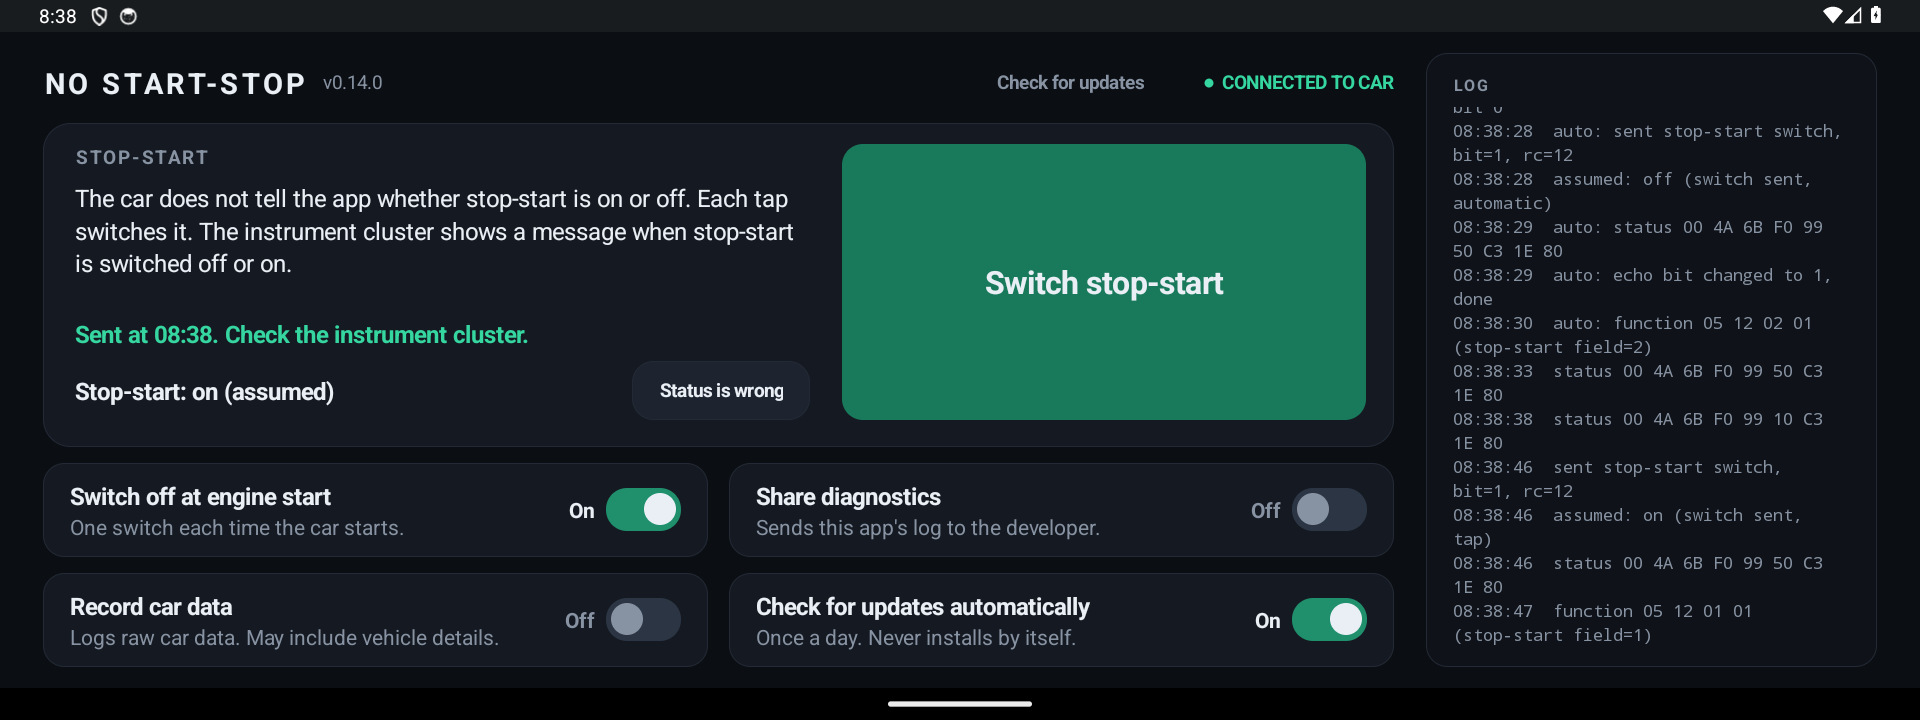
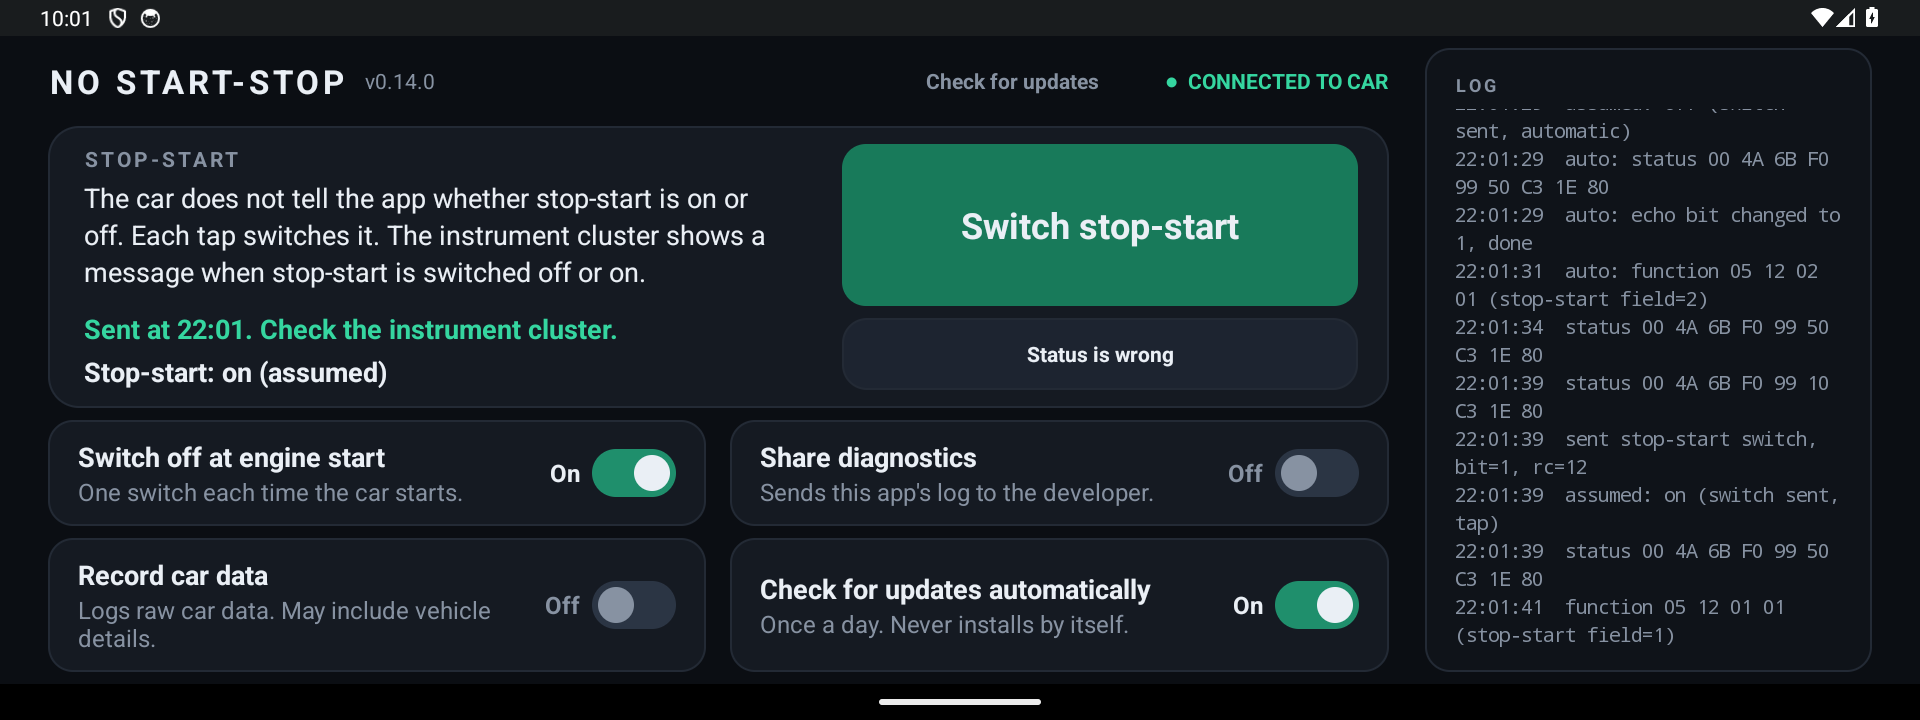
Retake the screenshots at 240 dpi with the fixed layout

diff --git a/README.md b/README.md
@@ -167,7 +167,7 @@ To copy it without adb:
 
 Each line has a date and time. Lines to look for:
 
-- `app opened, version …, android … (sdk …), <model>, boot count 7, up 42 s, network up (wifi)`: app and Android version, the head unit's model name, how many times the head unit has booted, seconds since it booted, and the network state. `boot count unknown` before Android 7.
+- `app opened, version …, android … (sdk …), <model>, display 1920x720, 240 dpi, boot count 7, up 42 s, network up (wifi)`: app and Android version, the head unit's model name, its screen size in pixels and density, how many times the head unit has booted, seconds since it booted, and the network state. `boot count unknown` before Android 7.
 - `TWUtil open` / `TWUtil unavailable: …`: whether the head unit's MCU link works. With **Record car data** on, `TWUtil open, CAN box only (engine and unit ids refused: …)` means the head unit refused the engine and unit messages; the switch works the same.
 - `status 00 4A …`: the raw settings frame (id 56) from the CAN box, logged whenever it changes.
 - `function 05 12 02 01 (stop-start field=2)`: the CAN box function frame (id 57), asked for after the first status frame when the link opens and 1.5 and 5 seconds after each switch, logged when it changes since the app started (at most 40 lines each time the app connects). The field is a candidate for the real stop-start state (1 on, 2 off, 0 not reported); it is not verified and the app does not use it.
